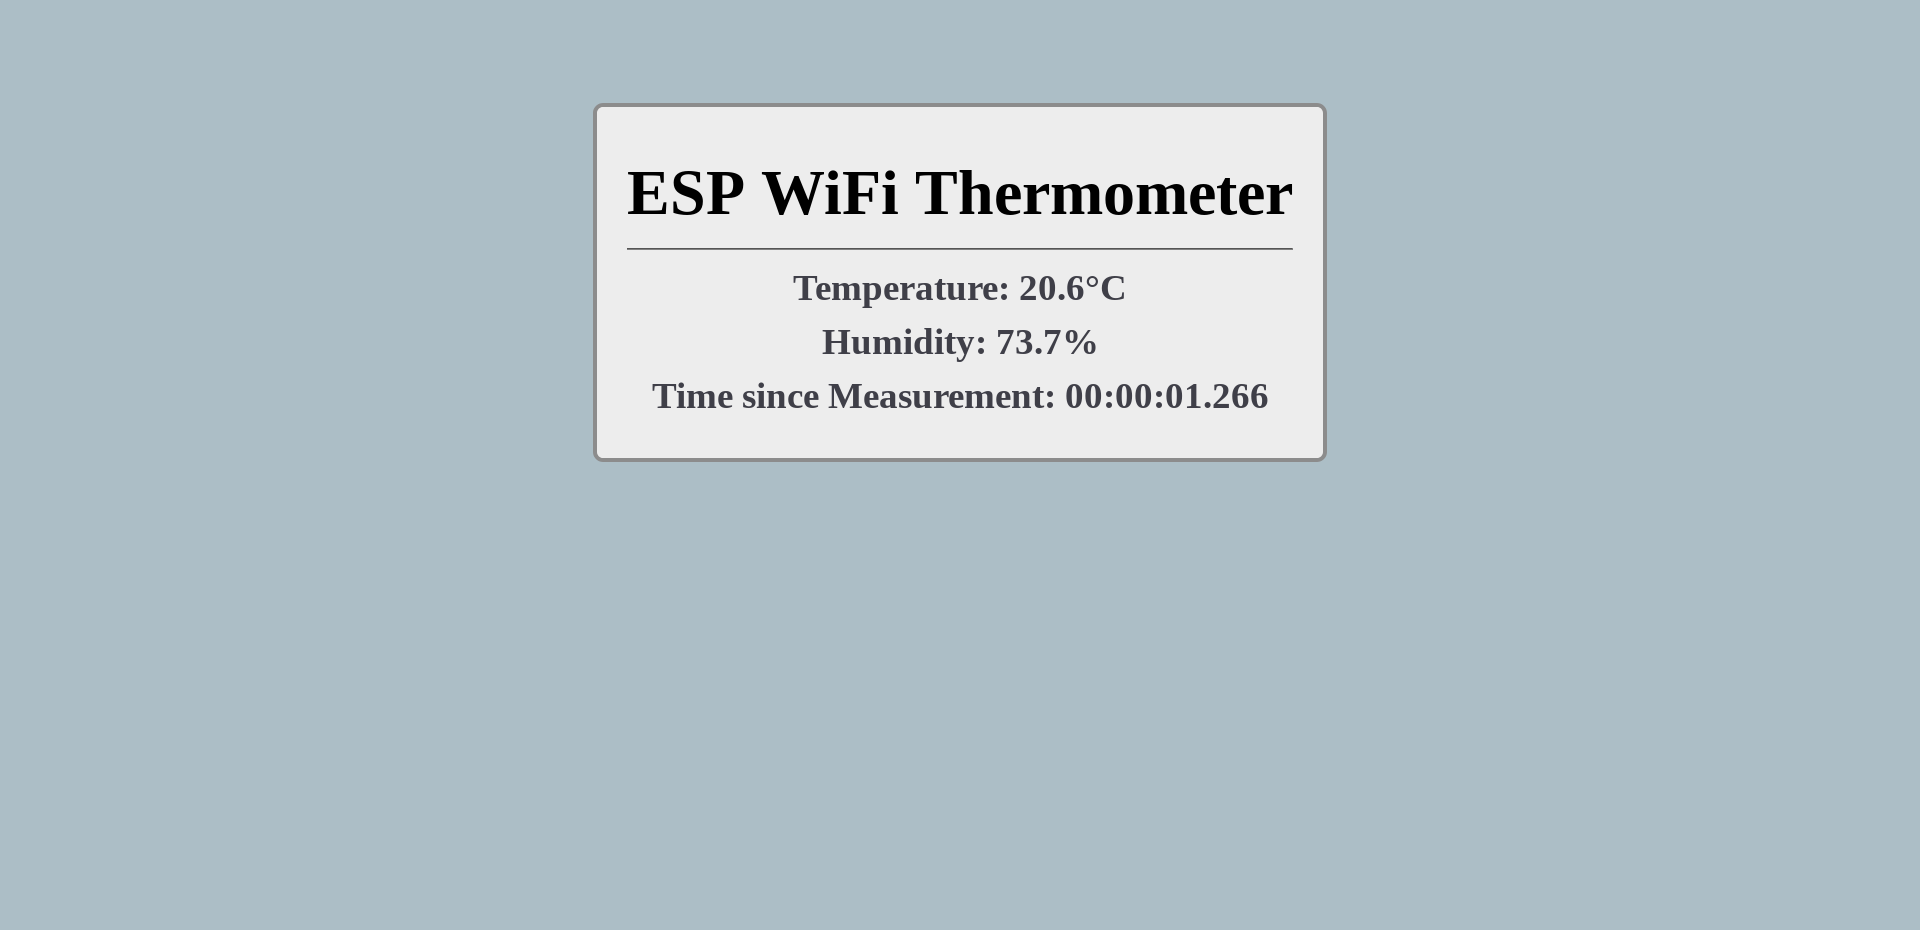
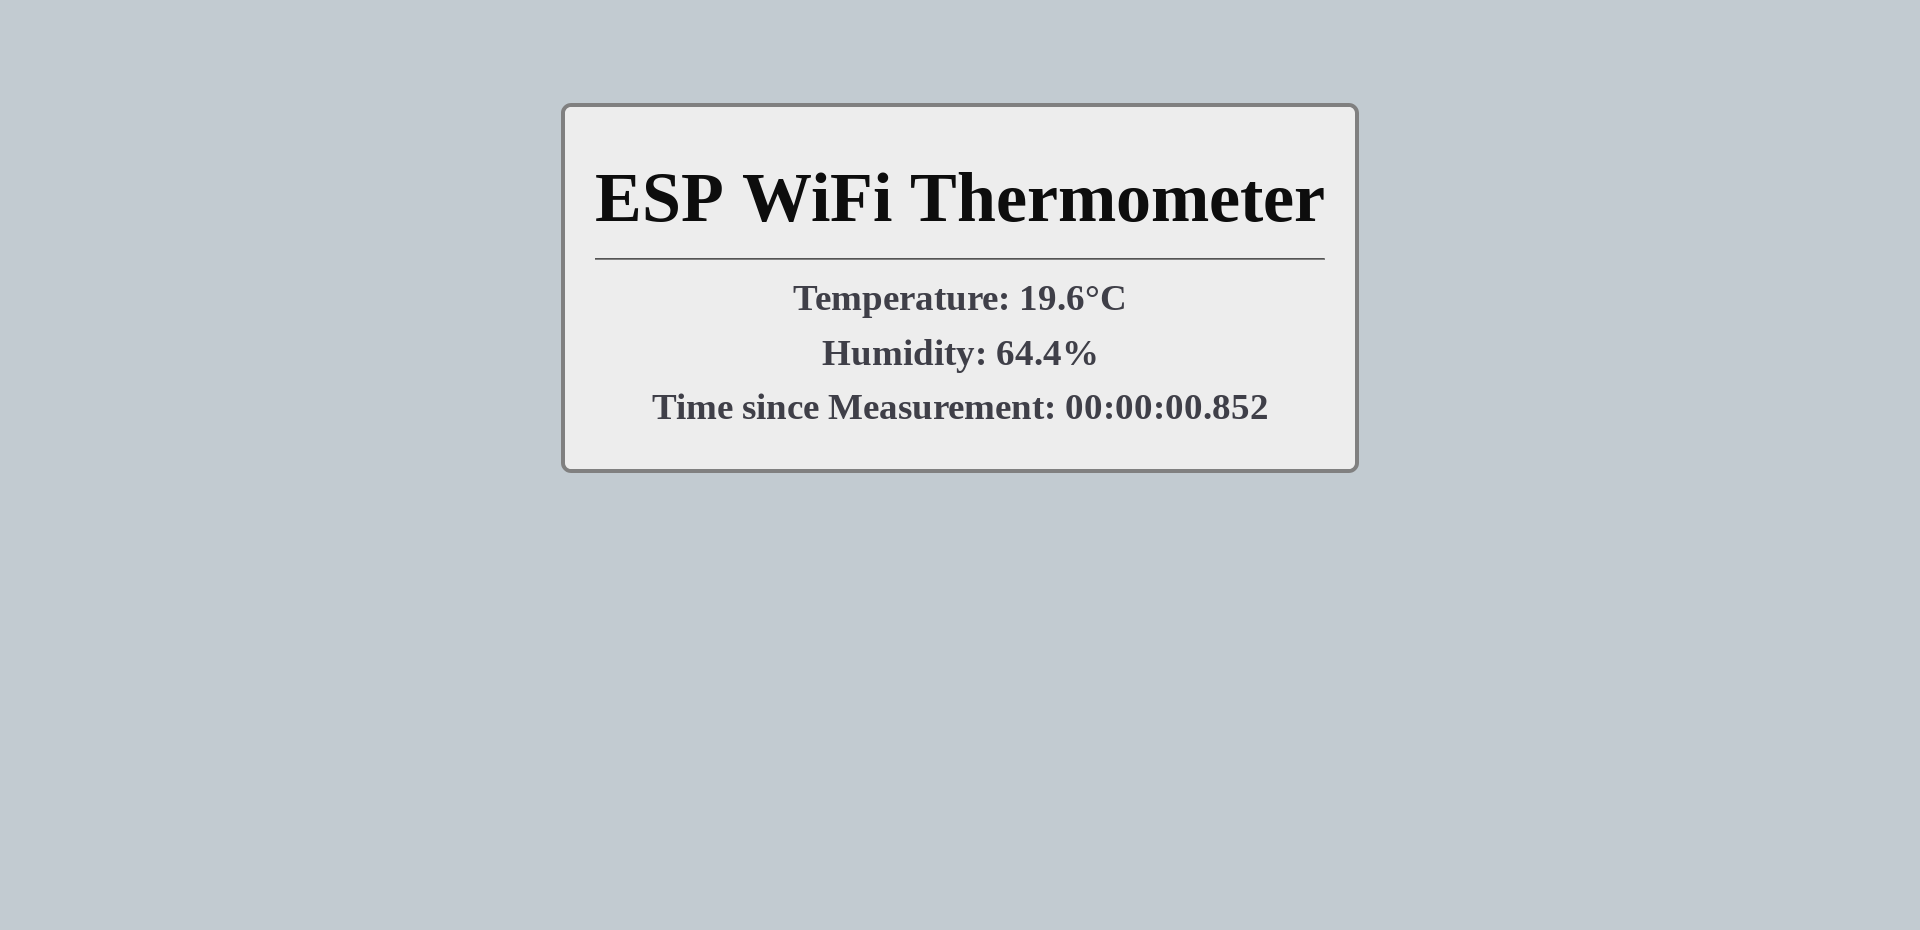
Add web interface Dark mode
* Move common css code to a block at the start of main.css
 * Add a css dark mode

Changed region(s): [[0.2812, 0.0935, 0.7188, 0.5301]]

diff --git a/src/html/main.css b/src/html/main.css
@@ -1,23 +1,65 @@
+/* This is the start of the common css for most of my esp projects */
 body {
-	background-color: #acbec6;
+	background-color: #c2cbd1;
 	text-align: center;
 }
 
 .main {
-	border: 4px solid #8c8c8c;
-	border-radius: 10px;
+	--border-color: #808080;
 	background-color: #ededed;
-	padding: 30px;
-	display: inline-block;
-	margin: 5% 0;
+	color: #0d0d0d;
 	font-size: 2em;
+	border: 4px solid var(--border-color);
+	border-radius: 10px;
+	display: inline-block;
+	padding: 30px;
+	margin: 5% 0;
 }
+
+h1 {
+	font-size: 2.2em;
+	margin: 5% 0.3em;
+}
+
+h3, label, p {
+	color: #3F3F48;
+	font-weight: bold;
+	margin: 0.3em 0;
+}
+
+@media (prefers-color-scheme: dark) {
+	body {
+		background-color: #222221;
+	}
+
+	.main {
+		background-color: #131312;
+		color: #aab1b5;
+		--border-color: #484946;
+	}
+
+	h3, label, p {
+		color: #8d9398;
+	}
+}
+/* This is the end of the common css for most of my esp projects */
 
 h1 {
 	margin: 0.3em 0;
 }
 
-h3 {
-	color: #3F3F48;
-	margin: 0.3em 0;
+a:link,
+a:visited,
+a:hover,
+a:active {
+	color: #8d9398;
+}
+
+@media (prefers-color-scheme: dark) {
+	a:link,
+	a:visited,
+	a:hover,
+	a:active {
+		color: #525550;
+	}
 }

diff --git a/src/html/not_found.html b/src/html/not_found.html
@@ -12,6 +12,7 @@
 <body>
 	<div class="main">
 		<h1>The requested file can not be found on this server!</h1>
+		<p>Do you want to return to the <a href="/index.html">main page</a>?</p>
 	</div>
 </body>
 </html>

diff --git a/read_ota_pass.py b/read_ota_pass.py
@@ -1,14 +1,13 @@
 #!/usr/bin/python
 Import ("env")
 import os
-import sys
 
 def main():
     input = "otapass.txt"
 
     if not os.path.exists(input) or not os.path.isfile(input):
         print(f"Error: {input} does not exist.")
-        sys.exit(1)
+        env.Exit(1)
 
     password = ""
 
